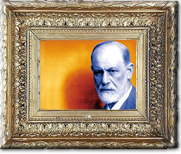
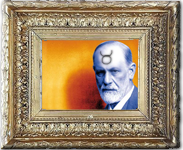
Update assets and element position

diff --git a/src/app/components/wall/wall.component.ts b/src/app/components/wall/wall.component.ts
@@ -30,25 +30,25 @@ import { CONFIG } from '../../environment';
 })
 export class WallComponent {
   public elements: Element[] = [
-    new Element(0, CONFIG.root + '/assets/img/elements/1_poster_chiromancie.png', 81.8, 92.2, 62.8),
+    new Element(0, CONFIG.root + '/assets/img/elements/1_poster_chiromancie.png', 86, 96.4, 63.3),
     new Element(1, CONFIG.root + '/assets/img/elements/2_peinture_foret.png', 3, 42.2, 57.5),
-    new Element(2, CONFIG.root + '/assets/img/elements/3_chaines.png', 23.2, 40.1, 75.2, true),
     new Element(3, CONFIG.root + '/assets/img/elements/4_fil_rouge.png', 9.3, 93.2, 11.7, false, true),
-    new Element(4, CONFIG.root + '/assets/img/elements/5_freud.png', 11.3, 31.4, 32.5),
+    new Element(4, CONFIG.root + '/assets/img/elements/5_freud.png', 11.2, 31.6, 32.3),
     new Element(5, CONFIG.root + '/assets/img/elements/6_amandier.png', 29.4, 79.78, -13.5, true),
     new Element(6, CONFIG.root + '/assets/img/elements/7_coffre.png', 16.1, 21.2, 40.3),
     new Element(7, CONFIG.root + '/assets/img/elements/8_centaure.png', 39.8, 70.0, 53.8),
-    new Element(8, CONFIG.root + '/assets/img/elements/9_la_disparue.png', 32.6, 44, 46.8),
-    new Element(9, CONFIG.root + '/assets/img/elements/10_photo_houdini.png', 19.1, 50, 8.8),
+    new Element(8, CONFIG.root + '/assets/img/elements/9_la_disparue.png', 21.7, 33.1, 2.0),
+    new Element(9, CONFIG.root + '/assets/img/elements/10_photo_houdini.png', 32, 46, 4.5),
+    new Element(2, CONFIG.root + '/assets/img/elements/3_chaines.png', 23.2, 40.1, 75.2, true),
     new Element(10, CONFIG.root + '/assets/img/elements/11_trophee_de_chasse.png', 24.8, 43.6, 42.8),
-    new Element(11, CONFIG.root + '/assets/img/elements/12_charentaises.png', 83.7, 97.7, 76.2, true),
-    new Element(12, CONFIG.root + '/assets/img/elements/13_roue_astrologique.png', 39.7, 52, 32.5),
+    new Element(12, CONFIG.root + '/assets/img/elements/13_roue_astrologique.png', 35.6, 47.9, 44.3),
     new Element(13, CONFIG.root + '/assets/img/elements/14_assiette_coquelicot.png', 1.6, 21.8, 0.7),
     new Element(14, CONFIG.root + '/assets/img/elements/15_harakiri.png', 69.6, 87.2, 29.4),
     new Element(15, CONFIG.root + '/assets/img/elements/16_peinture_puits.png', 78.6, 97.8, 4.3),
     new Element(16, CONFIG.root + '/assets/img/elements/17_escarpins.png', 85.6, 95.4, 29.5, true),
     new Element(17, CONFIG.root + '/assets/img/elements/18_croquis_manoir.png', 57, 76, 4.6),
     new Element(18, CONFIG.root + '/assets/img/elements/19_peinture_lac.png', 57, 84.6, 40.5),
+    new Element(11, CONFIG.root + '/assets/img/elements/12_charentaises.png', 58.7, 72.7, 82.2, true),
 
     new Element(19, CONFIG.root + '/assets/img/elements/FIL1.png', 51.9, 70.0, 29.5, false, true, true),
     new Element(20, CONFIG.root + '/assets/img/elements/FIL2.png', 36.3, 90, 43.7, false, true, true),

diff --git a/src/app/components/witnesses/witnesses.html b/src/app/components/witnesses/witnesses.html
@@ -1,6 +1,6 @@
 <div class="witnesses-inner">
   <div *ngIf="currentSequence" class="testimony">
-    <p>{{gameService.gameData[currentSequence].content}}</p>
+    <markdown [data]="gameService.gameData[currentSequence].content"></markdown>
     <div class="choice-wrapper">
       <button [ngClass]="{read: choice.read}" *ngFor="let choice of gameService.gameData[currentSequence].childrenNames; let i = index" (click)="goSequence(choice.goal, i, choice)">{{choice.translate ? (choice.link | translate) : choice.link}}</button>
     </div>

diff --git a/src/app/components/hud/hud.scss b/src/app/components/hud/hud.scss
@@ -61,7 +61,7 @@ hud {
   }
 
   .inventory {
-    flex: 1.8;
+    flex: 3.5;
     line-height: ($appHeight - $wallHeight);
     vertical-align: middle;
 
